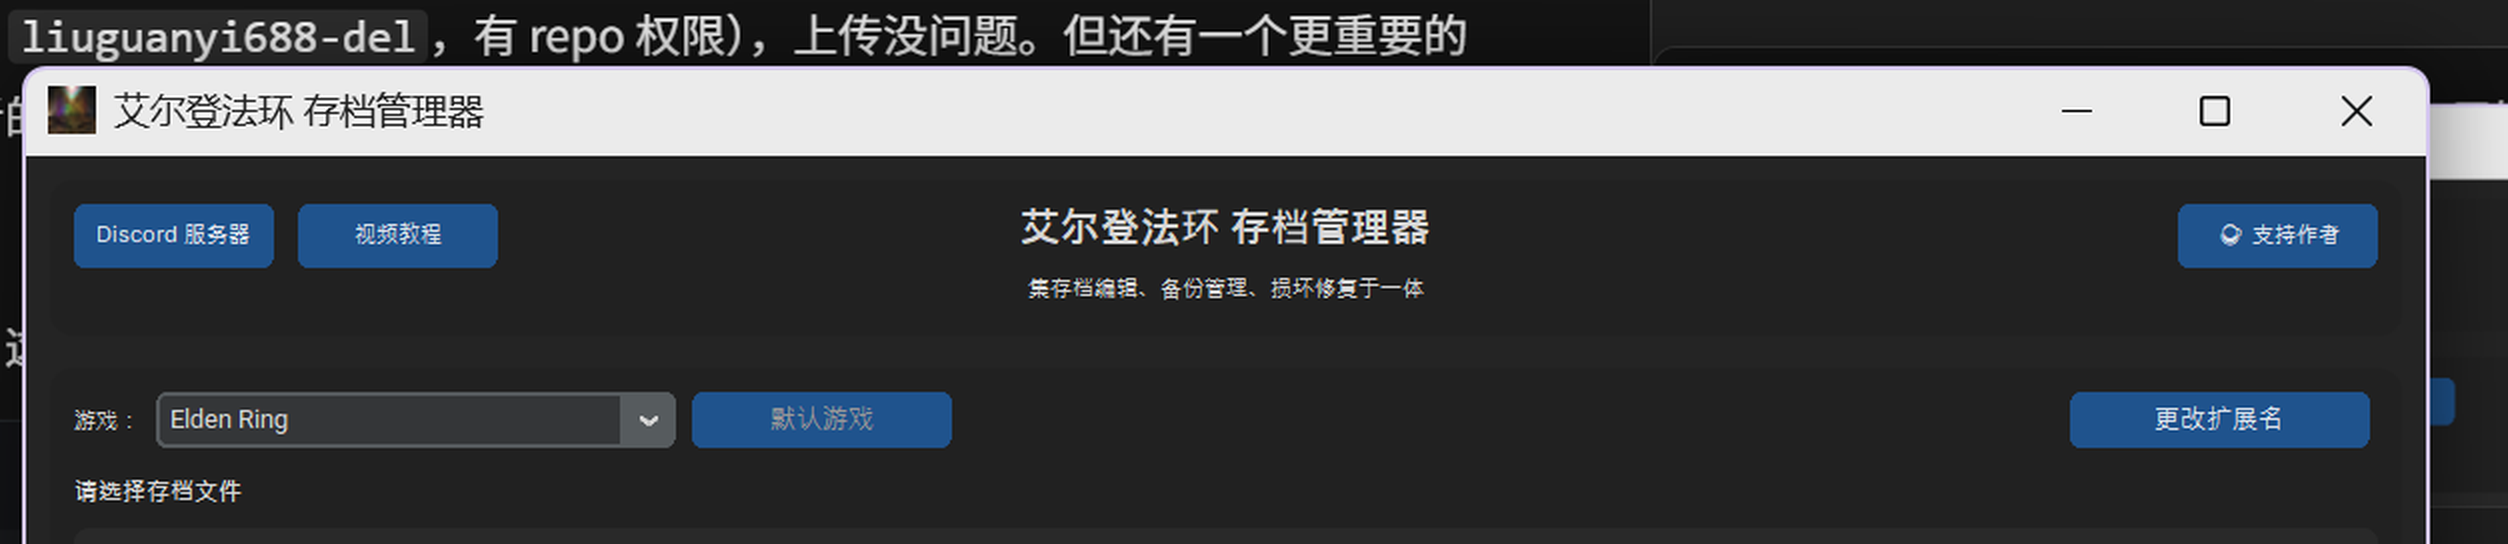
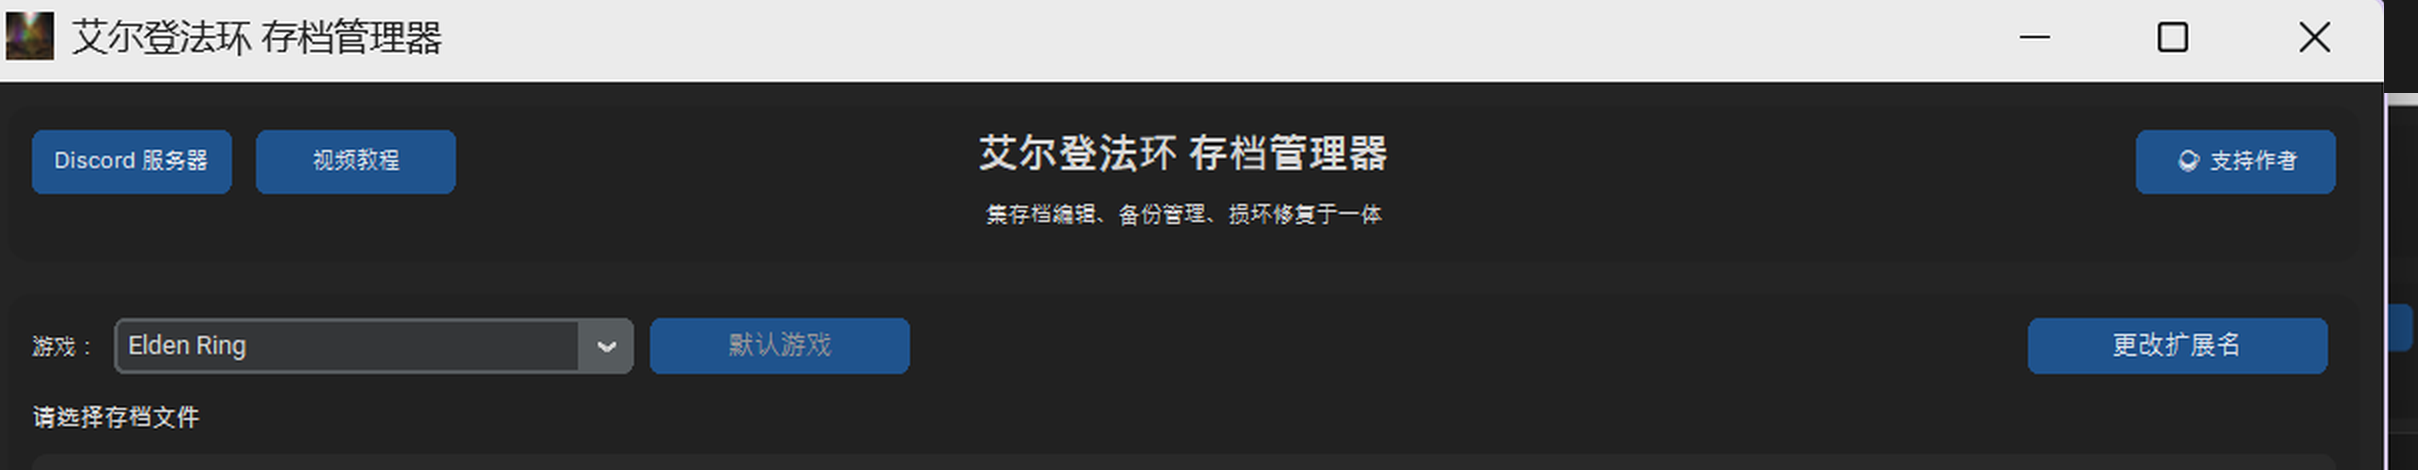
docs: add cropped preview to README

diff --git a/README.md b/README.md
@@ -7,6 +7,8 @@
 > [Nexus Mods](https://www.nexusmods.com/eldenring/mods/9271) 下载原版，
 > 然后用本脚本给自己的副本打补丁。
 
+![界面预览](preview.png)
+
 ## 为什么是"补丁"而不是"汉化版"
 
 原项目使用 **Source-Available License**，其中明确规定：
